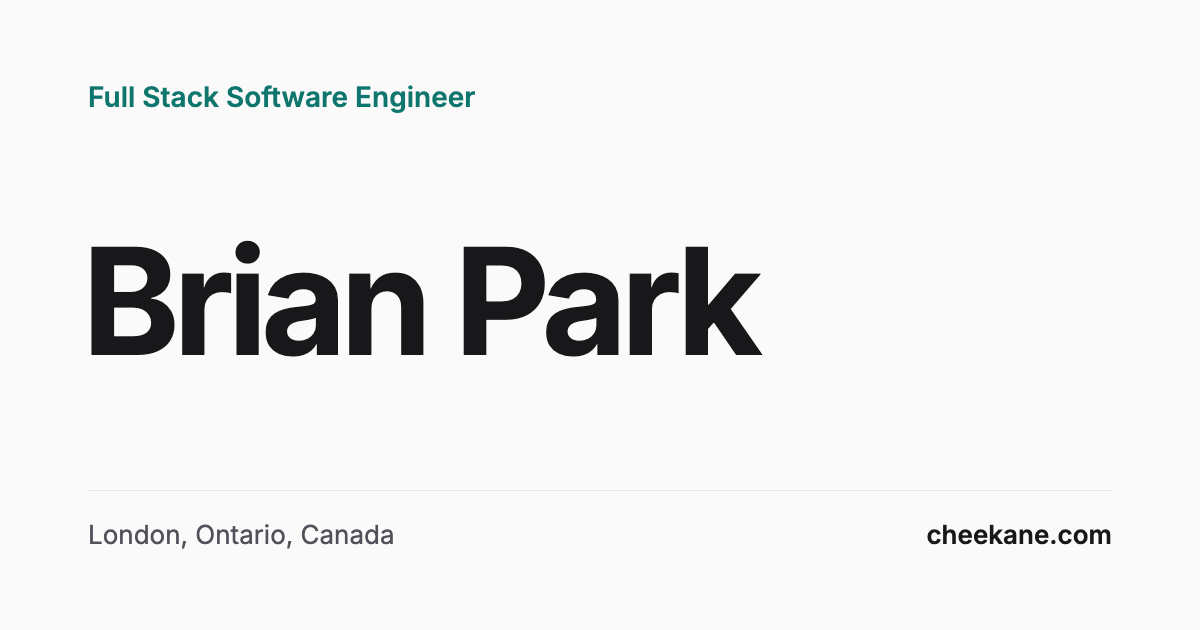
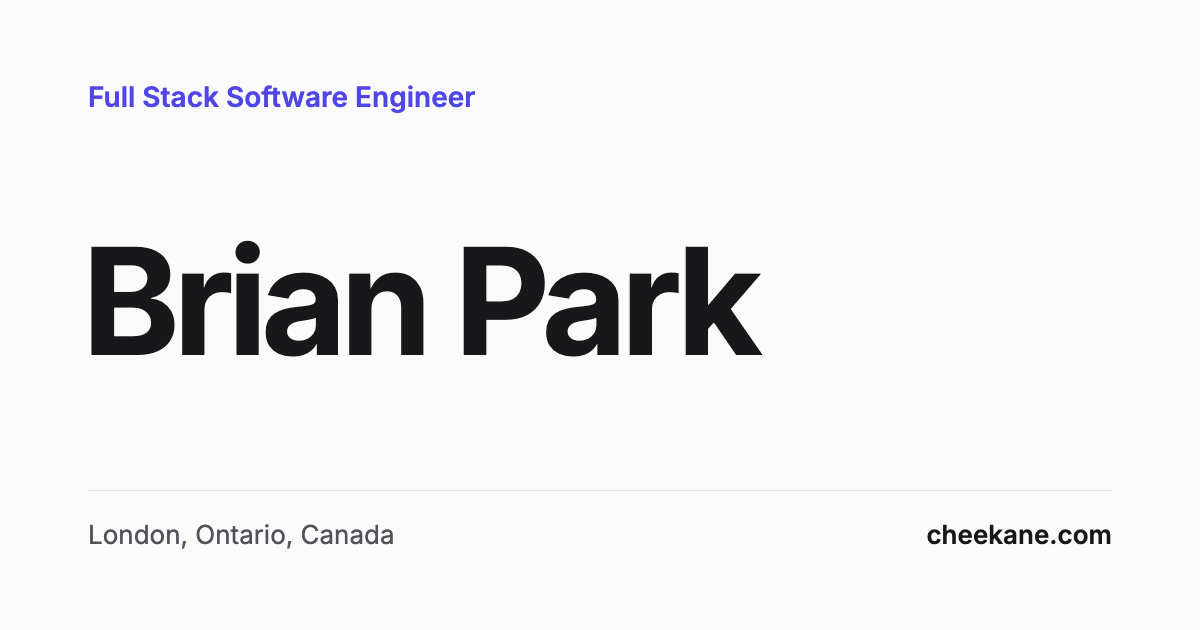
Switch accent to indigo and add hatched bands with square joints to the page frame

Changed region(s): [[0.0617, 0.1206, 0.4008, 0.181]]

diff --git a/src/styles/global.css b/src/styles/global.css
@@ -21,11 +21,19 @@
 
   /* Hairlines of the page frame: the hatched rails and the full width rules. */
   --frame-line: rgb(24 24 27 / 0.07);
+  --hatch: repeating-linear-gradient(
+      315deg,
+      var(--frame-line) 0,
+      var(--frame-line) 1px,
+      transparent 0,
+      transparent 50%
+    )
+    0 0 / 8px 8px;
 
-  /* The one accent: teal. Used for links, eyebrows, the main button and focus. */
-  --accent: #0f766e;
-  --accent-strong: #115e59;
-  --accent-soft: #f0fdfa;
+  /* The one accent: Tailwind's indigo. Used for links, eyebrows, the main button and focus. */
+  --accent: #4f46e5;
+  --accent-strong: #4338ca;
+  --accent-soft: #eef2ff;
   --on-accent: #ffffff;
 
   --font: 'Inter Variable', ui-sans-serif, system-ui, -apple-system, 'Segoe UI', sans-serif;
@@ -42,6 +50,23 @@
   --page: 70rem;
   --radius: 0.75rem;
   --radius-card: 1rem;
+
+  /*
+   * Where the side rails stand (see "The page frame" below). The bands that
+   * cross the page use the same numbers, so the two always line up. Sizes are
+   * whole pixels and whole hatch tiles (8px), which keeps every hairline crisp.
+   * On tablets the rails are slim and sit at the edge of the screen.
+   */
+  --rail: 1rem;
+  --rail-inset: 0px;
+}
+
+/* From here the page margin is wide enough for full size rails beside the content. */
+@media (min-width: 80rem) {
+  :root {
+    --rail: 2.5rem;
+    --rail-inset: calc(50% - var(--page) / 2 - 1.5rem - var(--rail));
+  }
 }
 
 @media (prefers-color-scheme: dark) {
@@ -59,10 +84,10 @@
 
     --frame-line: rgb(255 255 255 / 0.09);
 
-    --accent: #2dd4bf;
-    --accent-strong: #5eead4;
-    --accent-soft: rgb(45 212 191 / 0.1);
-    --on-accent: #042f2e;
+    --accent: #818cf8;
+    --accent-strong: #a5b4fc;
+    --accent-soft: rgb(129 140 248 / 0.12);
+    --on-accent: #1e1b4b;
   }
 }
 
@@ -102,33 +127,22 @@ body {
  */
 body::before,
 body::after {
-  --edge: max(var(--gutter), calc(50% - var(--page) / 2));
-  --gap: calc(var(--gutter) / 2);
-  --rail: min(2.5rem, calc(var(--edge) - var(--gap)));
-
   content: '';
   position: absolute;
   inset-block: 0;
   z-index: -1;
   width: var(--rail);
   border-inline: 1px solid var(--frame-line);
-  background: repeating-linear-gradient(
-      315deg,
-      var(--frame-line) 0,
-      var(--frame-line) 1px,
-      transparent 0,
-      transparent 50%
-    )
-    0 0 / 10px 10px;
+  background: var(--hatch);
   pointer-events: none;
 }
 
 body::before {
-  left: calc(var(--edge) - var(--gap) - var(--rail));
+  left: var(--rail-inset);
 }
 
 body::after {
-  right: calc(var(--edge) - var(--gap) - var(--rail));
+  right: var(--rail-inset);
 }
 
 @media (max-width: 39.99rem) {
@@ -138,15 +152,18 @@ body::after {
   }
 }
 
-/* A hairline that runs the full width of the window, crossing the rails. */
+/* The frame is decoration, so it is dropped on paper and in high contrast modes. */
+@media print, (forced-colors: active) {
+  body::before,
+  body::after {
+    content: none;
+  }
+}
+
+/* A hairline under the header that runs the full width of the window, crossing the rails. */
 .rule-below {
   border-bottom: 1px solid transparent;
   border-image: linear-gradient(var(--frame-line), var(--frame-line)) 1 / 0 0 1px / 0 100vw;
-}
-
-.rule-above {
-  border-top: 1px solid transparent;
-  border-image: linear-gradient(var(--frame-line), var(--frame-line)) 1 / 1px 0 0 / 0 100vw;
 }
 
 h1,
